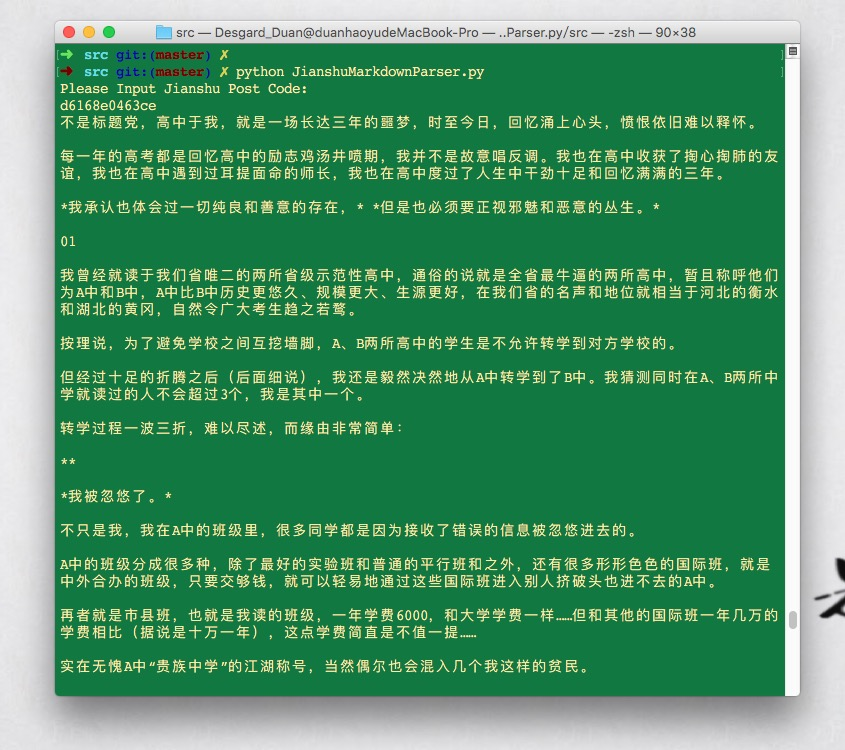
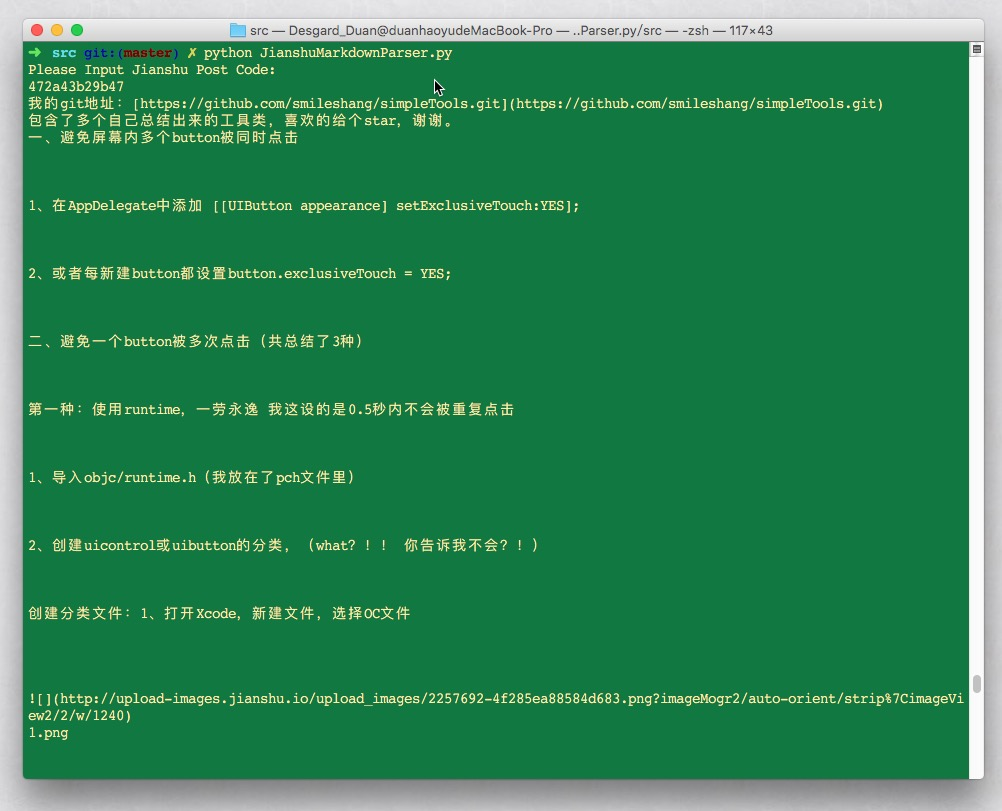
ADD: 完成图片、代码爬取

diff --git a/src/JianshuMarkdownParser.py b/src/JianshuMarkdownParser.py
@@ -11,9 +11,12 @@ import string
 import urllib2
 from bs4 import BeautifulSoup
 
+def get_basic_imformation(dic):
+    ccc = 1
+
 def get_jianshu_html(url_code):
     url = "http://www.jianshu.com/p/" + url_code
-    # url = "http://www.jianshu.com/p/a263e53bf4ef"
+    # url = "http://www.jianshu.com/p/99af00237cb8"
     req = urllib2.Request(url)
     req.add_header('User-Agent', 'Mozilla/5.0 (X11; Linux x86_64) AppleWebKit/537.36 (KHTML, like Gecko) Chrome/41.0.2272.89 Safari/537.36')
     con = urllib2.urlopen(req)
@@ -71,26 +74,63 @@ def rep_h(html_code):
 
     return html_code
 
-def rep_pre():
-    return ''
+
+
+def rep_pre(html_code):
+    html_code = html_code.replace('<pre><code>', '{% highlight ruby %}\n')
+    # <pre><code class="Objective-C">
+    html_code = re.sub(r'<pre><code.+?>', '{% highlight ruby %}\n', html_code)
+    html_code = html_code.replace('</code></pre>', '\n{% endhighlight %}')
+
+    return html_code
+
+def rep_img(html_code):
+    tags = re.findall(r'<img.+?/>', html_code)
+    rex = re.findall(r'<img .*? src="(.*?)"/>', html_code)
+    if len(tags) == len(rex):
+        for i in range(0, len(tags)):
+            src = rex[i]
+            tag = tags[i]
+            new_string = '![](' + src + ')'
+            html_code = html_code.replace(tag, new_string)
+    return html_code
+
+def del_div(html_code):
+    # (r'<a.+?href=.+?>.+?</a>', html_code)
+    html_code = re.sub(r'<div.+?>', '', html_code)
+    html_code = re.sub(r'</div>', '', html_code)
+    html_code = html_code.replace('<b>', '')
+    html_code = html_code.replace('</b>', '')
+    return html_code
 
 def rep_strong(html_code):
-    html_code = html_code.replace('<b>', '**')
-    html_code = html_code.replace('</b>', '**')
+
     html_code = html_code.replace('<strong>', '**')
     html_code = html_code.replace('</strong>', '**')
     return html_code
 
-def main():
-    print('Please Input Jianshu Post Code: ')
-    buff = sys.stdin.readline()
+def rep_code(html_code):
+    html_code = html_code.replace('<code>', '`')
+    html_code = html_code.replace('</code>', '`')
+    return html_code
+
+def GuaScriptMarkdownParserStartUp(buff):
     post = get_jianshu_html(buff)
     post = rep_p(post)
     post = rep_hr(post)
     post = rep_a(post)
     post = rep_h(post)
     post = rep_strong(post)
+    post = del_div(post)
+    post = rep_img(post)
+    post = rep_pre(post)
+    post = rep_code(post)
     print post
+def main():
+    print('Please Input Jianshu Post Code: ')
+    buff = sys.stdin.readline()
+    GuaScriptMarkdownParserStartUp(buff)
+
 
 if __name__ == "__main__":
     sys.exit(main())

diff --git a/README.md b/README.md
@@ -9,8 +9,11 @@
 
 ## Description
 
-尚未支持：
+在简书上发布文章，进行文字爬取，生成`**.md`文件，可同步至[瓜地](http://desgard.com)。
 
-* 图片
-* 代码
+## Next Mission
+
+* 爬取文章基本信息
+* 自动生成格式化文件名：`yyyy-MM-dd-{title}.md`
+* 本地创建文件
 
